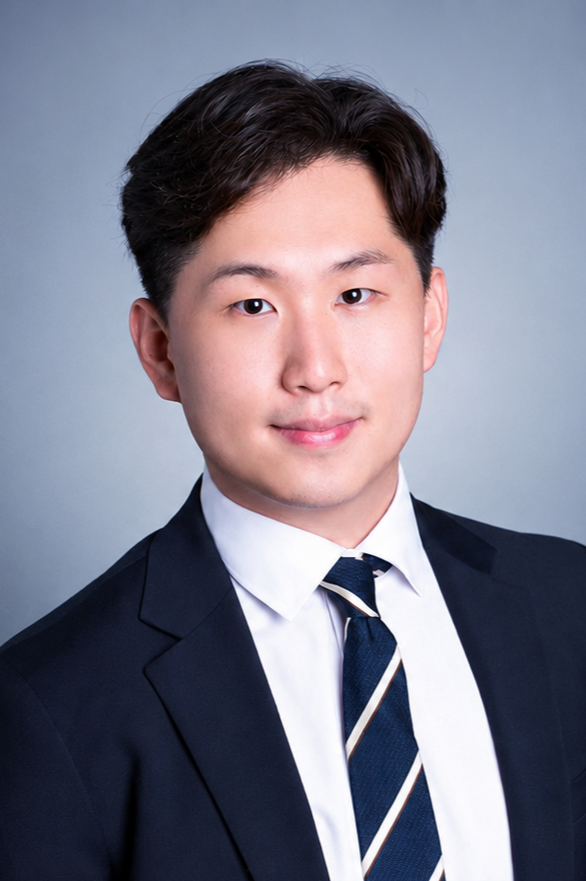
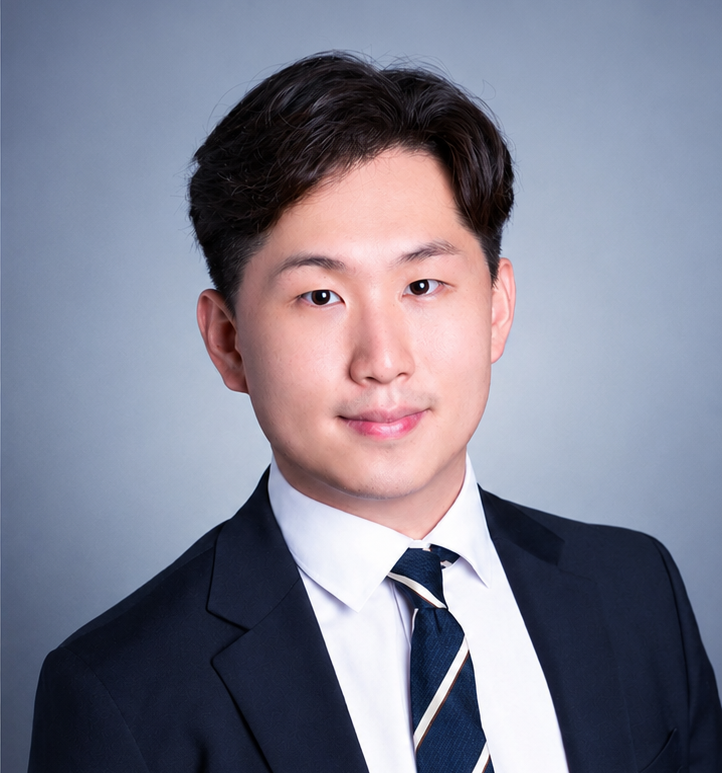
Add files via upload

diff --git a/index.html b/index.html
@@ -16,7 +16,7 @@
   <meta property="og:url" content="https://jeon-donggyu.github.io/">
   <meta property="og:image" content="https://jeon-donggyu.github.io/assets/img/profile.png">
 
-  <link rel="icon" type="image/png" sizes="96x96" href="https://jeon-donggyu.github.io/assets/img/favicon-profile-96.png">
+  <link rel="icon" type="image/png" sizes="96x96" href="https://jeon-donggyu.github.io/assets/img/profile.png">
   <link rel="stylesheet" href="https://cdnjs.cloudflare.com/ajax/libs/font-awesome/6.5.1/css/all.min.css">
   <link rel="stylesheet" href="assets/css/styles.css">
   

diff --git a/research.html b/research.html
@@ -8,7 +8,7 @@
   <link rel="canonical" href="https://jeon-donggyu.github.io/research.html">
   <meta property="og:url" content="https://jeon-donggyu.github.io/research.html">
 
-  <link rel="icon" type="image/png" sizes="96x96" href="https://jeon-donggyu.github.io/assets/img/favicon-profile-96.png">
+  <link rel="icon" type="image/png" sizes="96x96" href="https://jeon-donggyu.github.io/assets/img/profile.png">
   <link rel="stylesheet" href="assets/css/styles.css">
 </head>
 <body>

diff --git a/teaching.html b/teaching.html
@@ -8,7 +8,7 @@
   <link rel="canonical" href="https://jeon-donggyu.github.io/teaching.html">
   <meta property="og:url" content="https://jeon-donggyu.github.io/teaching.html">
 
-  <link rel="icon" type="image/png" sizes="96x96" href="https://jeon-donggyu.github.io/assets/img/favicon-profile-96.png">
+  <link rel="icon" type="image/png" sizes="96x96" href="https://jeon-donggyu.github.io/assets/img/profile.png">
   <link rel="stylesheet" href="assets/css/styles.css">
 </head>
 <body>